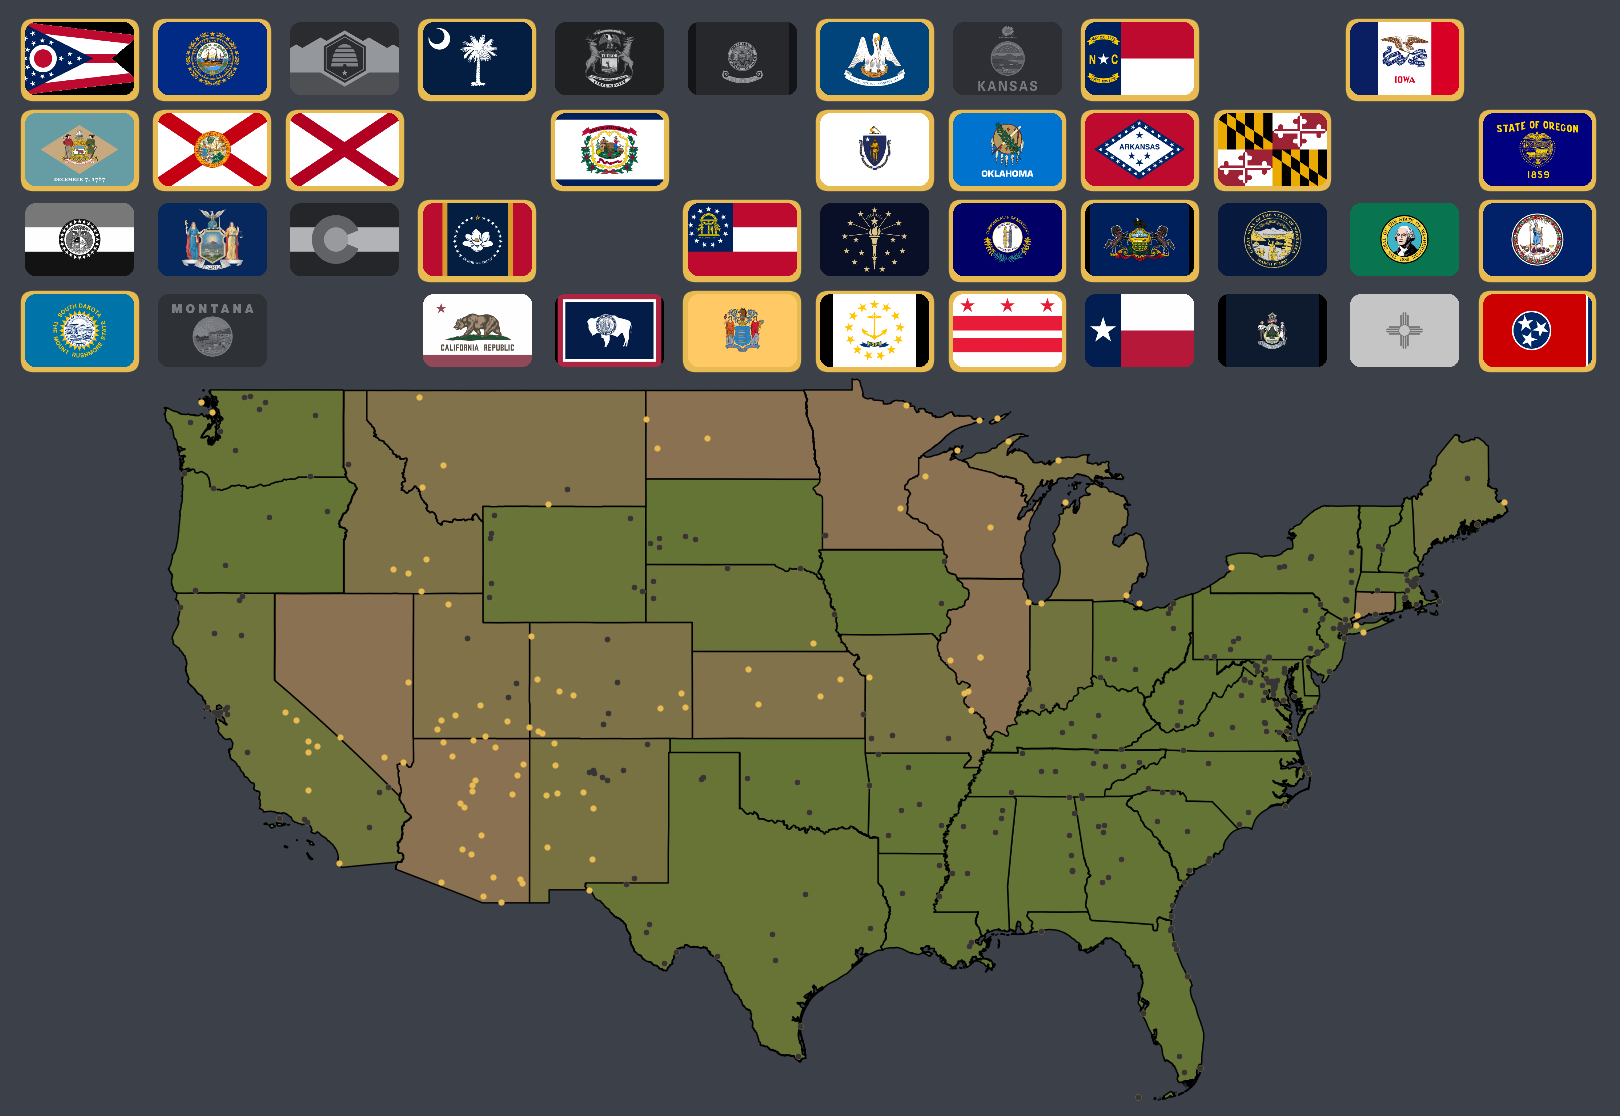
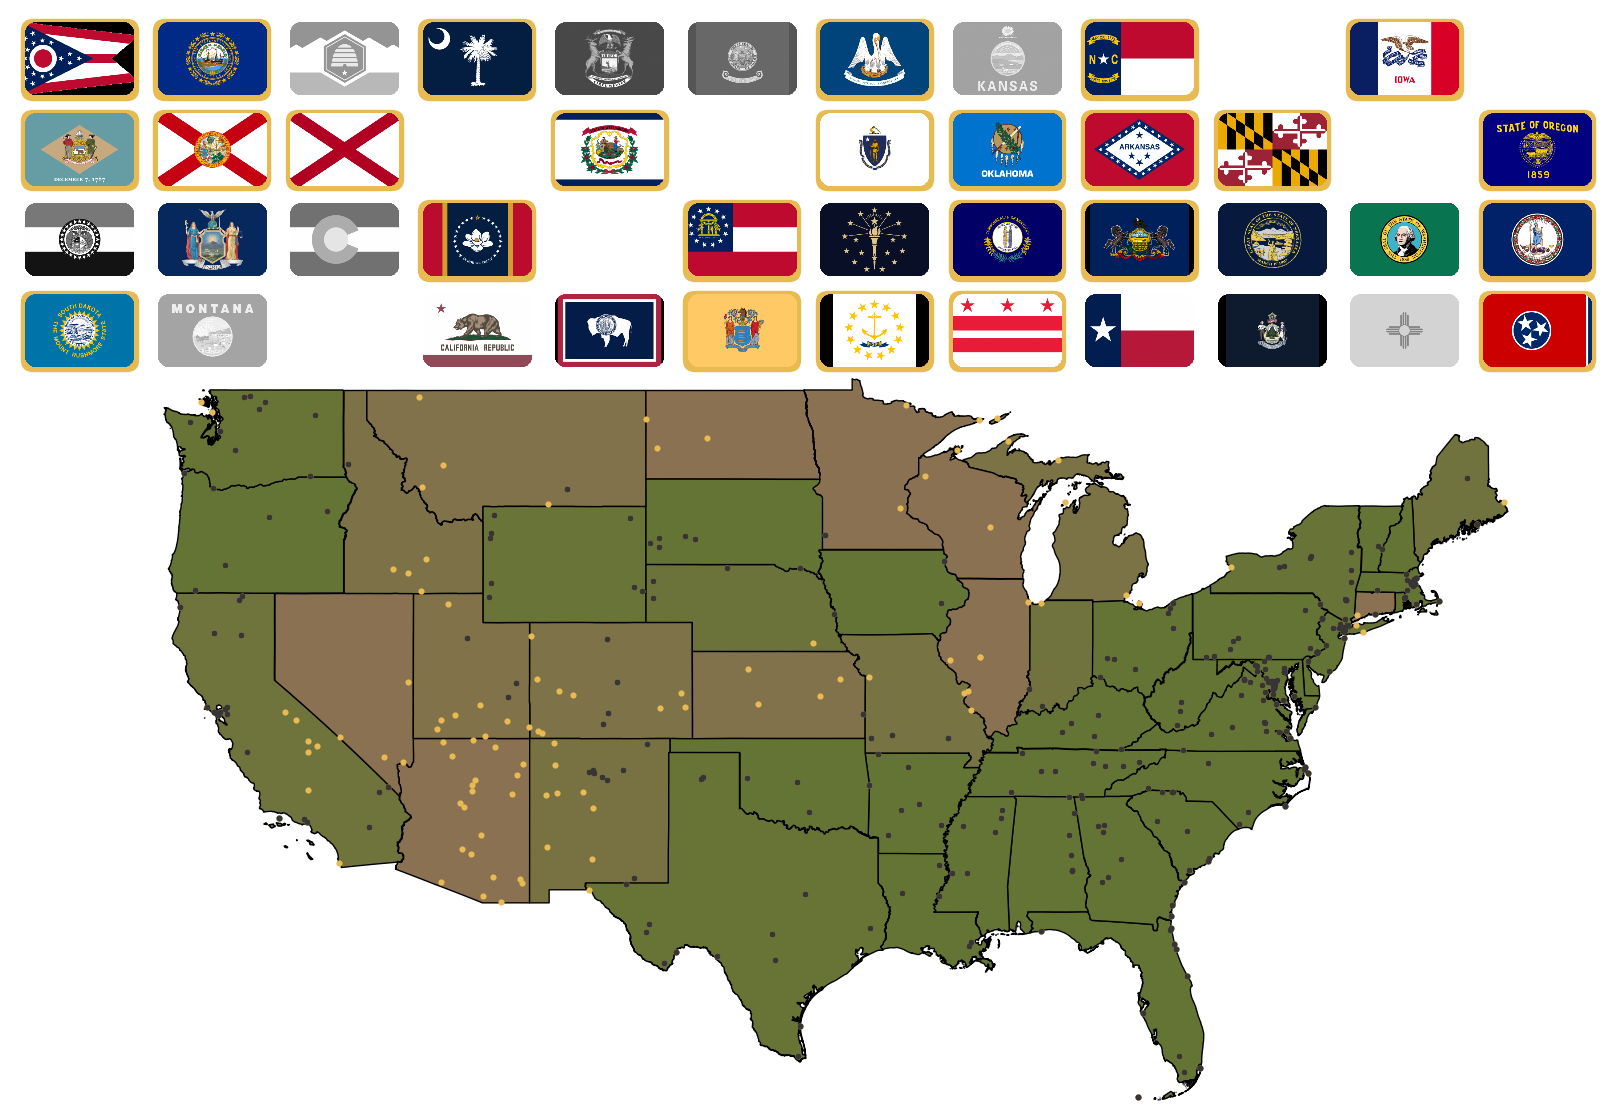
make transparent background

diff --git a/main.py b/main.py
@@ -46,13 +46,13 @@ plot_manager = PlotManager(
 
 # Add first plot
 current_date = points_sorted['date'].min() - datetime.timedelta(days=1)
-plot_manager.generate_plot(current_date, points_sorted.iloc[0], copy=True)
+#plot_manager.generate_plot(current_date, points_sorted.iloc[0], copy=True)
 
 # Plot all dates
 for _, row in points_sorted.iterrows():
     current_date = row['date']
     if pd.notna(current_date) and current_date != old_date:
-        plot_manager.generate_plot(current_date, row)
+        #plot_manager.generate_plot(current_date, row)
         old_date = current_date
 
 # Create Last Plot

diff --git a/plotting/plotting_manager.py b/plotting/plotting_manager.py
@@ -58,7 +58,8 @@ class PlotManager:
             self.fig_size[0] * self.scale,
             self.fig_size[1] * self.scale
         ))
-        fig.patch.set_facecolor('#3C4048')
+        fig.patch.set_facecolor('#FF000000')
+        #fig.patch.set_facecolor('#3C4048')
         return fig, ax
 
     def _plot_submaps(self, ax, current_date):
